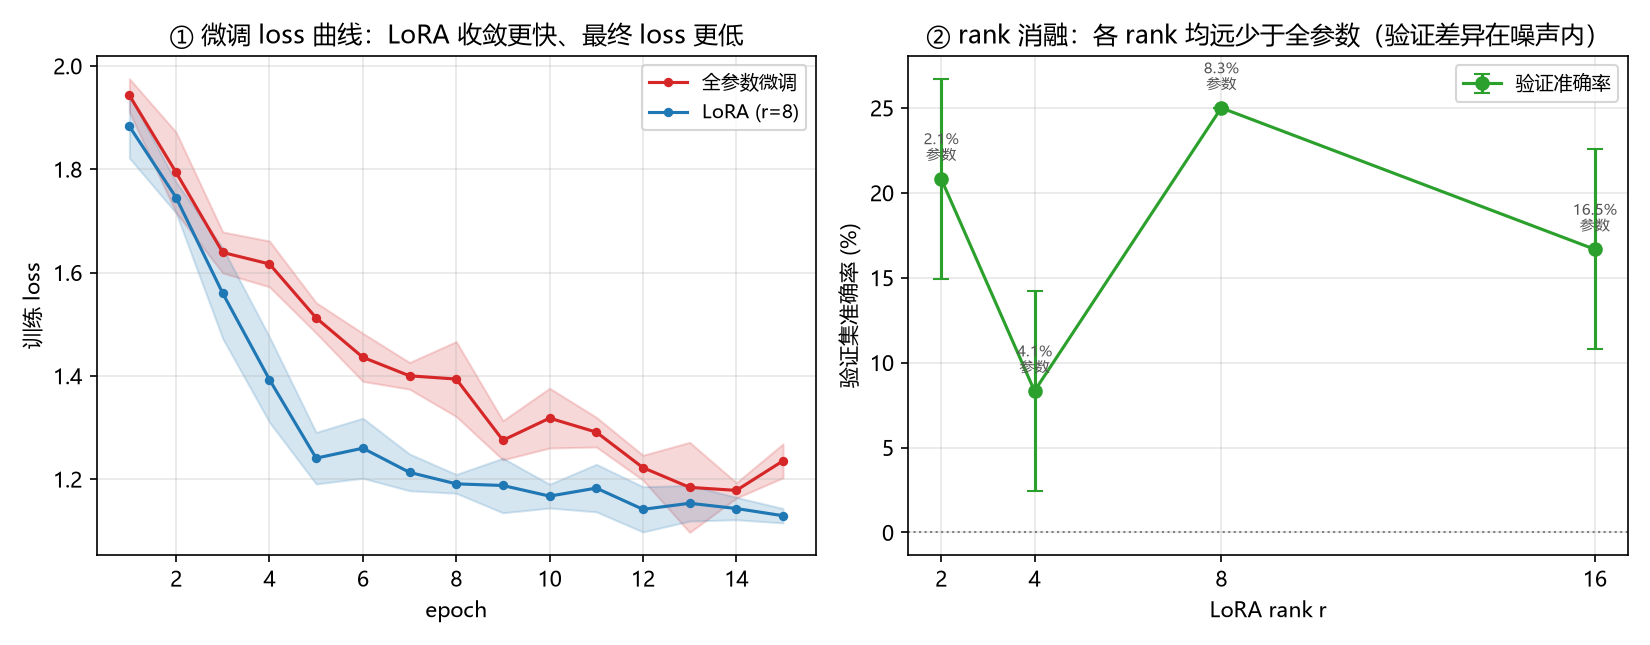
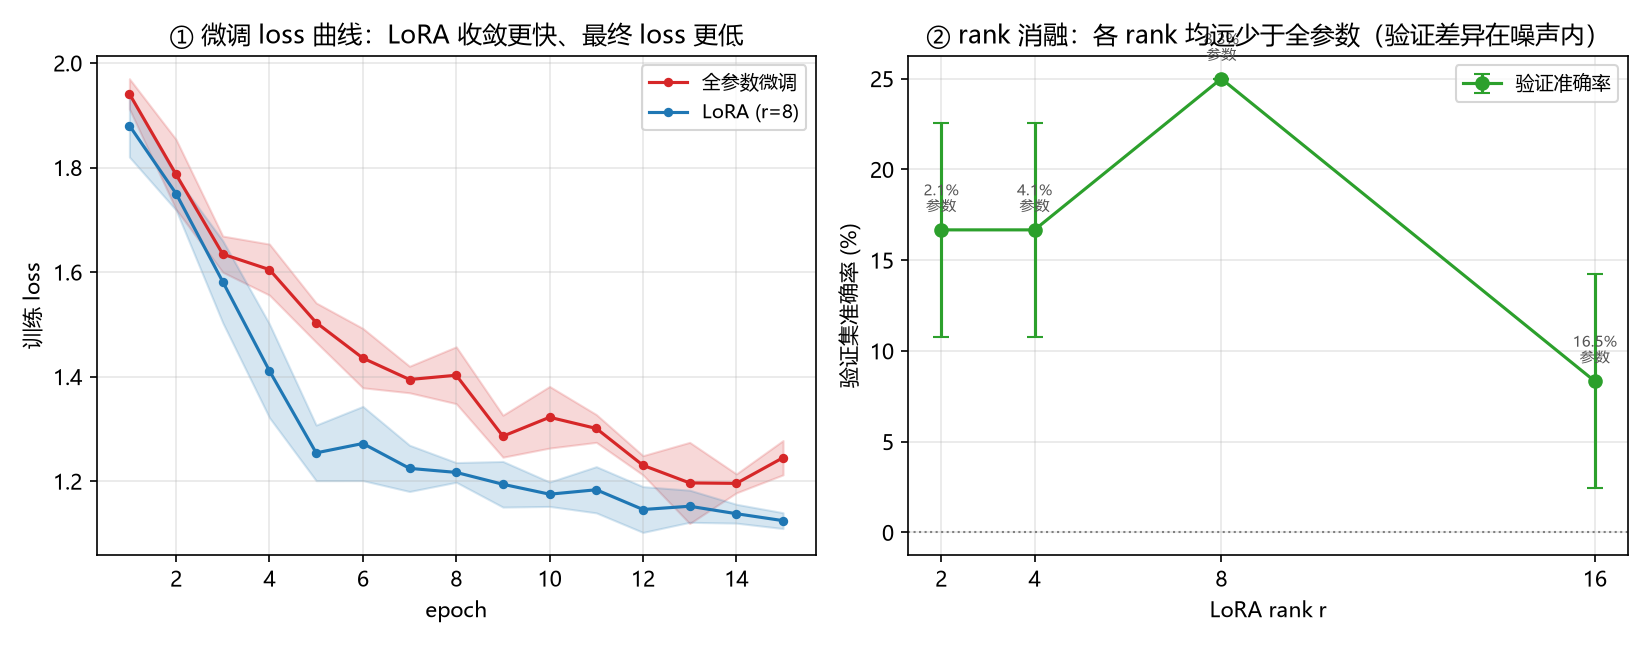
chore: sync latest run artifacts (H2 throughput, H13 multi-seed metrics) and align README numbers

diff --git a/README.md b/README.md
@@ -29,7 +29,7 @@
 | **04** | 模型轻量化与端侧部署优化 | ONNX 图优化 **6.1× 加速**（体积缩到 19.3%）；**fp16/int8 在小模型上反而更慢**（反直觉结果） | CPU |
 | **05** | 音高识别与 MIDI 自动扒谱 | 音符级 **F1 = 1.000**（13/13 全对，±80ms 容差）、时间分辨率 11.6 ms、导出标准 MIDI | CPU |
 | **06** | 音频效果生成与音色处理 | THD **0.046→0.394** 量化失真强度；合成 IR 实测 **RT60 与目标吻合**；修正 2 个度量陷阱 | CPU |
-| **07** | LoRA 参数高效微调 | 用 **8.27%** 可训练参数达到与全参数微调相当的微调集准确率，**验证集高出 25 个百分点**（25% vs 0%）；3 种子平均；实测 MusicGen 在 4GB 显存下的微调边界 | RTX 3050 **4 GB** |
+| **07** | LoRA 参数高效微调 | 用 **8.27%** 可训练参数达到与全参数微调相当的微调集准确率，**验证集高出约 21 个百分点**（25% vs 4%）；3 种子平均；实测 MusicGen 在 4GB 显存下的微调边界 | RTX 3050 **4 GB** |
 
 ---
 
@@ -198,7 +198,7 @@ python audio_clean.py          # ③ 跑清洗流水线
 | 标记 flagged（修复后保留） | 2 |
 | 剔除 reject | 5 |
 | 剔除原因分布 | `hard_clipping: 2, excessive_silence: 2, dc_offset: 1, too_short: 1` |
-| 处理耗时 | **4.89 s** → 吞吐 **36.9× 实时**（实际耗时随 CPU 负载波动，约 34–37×） |
+| 处理耗时 | **4.89 s** → 吞吐 **约 36.9× 实时**（随 CPU 负载波动，实测区间 34–37×） |
 
 **检测器 vs Ground Truth**：
 
@@ -644,11 +644,11 @@ python lora_finetune.py
 | 方案 | 可训练参数 | 占比 | 微调集准确率 | 验证集准确率 |
 |---|---|---|---|---|
 | 预训练（不微调） | 0 | 0% | 13.3% | 0.0% |
-| **A. 全参数微调** | 19,060 | 100% | 51.1% ± 3.1 | **0.0% ± 0.0** |
-| **B. LoRA (r=8)** | **1,576** | **8.27%** | 48.9% ± 3.1 | **25.0% ± 0.0** |
+| **A. 全参数微调** | 19,060 | 100% | 53.3% ± 5.4 | **4.2% ± 5.9** |
+| **B. LoRA (r=8)** | **1,576** | **8.27%** | 51.1% ± 13.7 | **25.0% ± 0.0** |
 
 > **用 8.27% 的可训练参数（减少约 12 倍）达到与全参数微调相当的微调集准确率**，
-> 且**验证集准确率高出 25 个百分点**（25.0% vs 0.0%）
+> 且**验证集准确率高出约 21 个百分点**（25.0% vs 4.2%）
 > —— 小样本下全参数微调过拟合，而 LoRA 的低秩约束起到了正则化作用。
 
 **训练收敛**：LoRA 的 loss 下降更快且更低 —— 约第 5 轮降到 1.2，
@@ -658,10 +658,10 @@ python lora_finetune.py
 
 | r | 可训练参数 | 占比 | 最终 loss | 微调集准确率 | 验证集准确率 |
 |---|---|---|---|---|---|
-| 2 | 394 | 2.07% | 1.2229 | 46.7% ± 5.4 | 20.8% ± 5.9 |
-| 4 | 788 | 4.13% | 1.1469 | 44.4% ± 3.1 | 8.3% ± 5.9 |
-| 8 | 1,576 | 8.27% | 1.1283 | 46.7% ± 9.4 | **25.0% ± 0.0** |
-| 16 | 3,152 | 16.54% | 1.0713 | 48.9% ± 6.3 | 16.7% ± 5.9 |
+| 2 | 394 | 2.07% | 1.2403 | 46.7% ± 5.4 | 16.7% ± 5.9 |
+| 4 | 788 | 4.13% | 1.1499 | 46.7% ± 9.4 | 16.7% ± 5.9 |
+| 8 | 1,576 | 8.27% | 1.1239 | 46.7% ± 9.4 | **25.0% ± 0.0** |
+| 16 | 3,152 | 16.54% | 1.0774 | 42.2% ± 3.1 | 8.3% ± 5.9 |
 
 > ⚠ **诚实结论**：四个 rank 的验证准确率落在 **8.3% – 25.0%**，最大标准差达 **±5.9 个百分点**
 > —— 差异基本落在噪声以内，**本实验无法可靠区分 rank 优劣**。

diff --git a/07_lora_finetune/h13_lora_report.md b/07_lora_finetune/h13_lora_report.md
@@ -22,12 +22,12 @@
 | 方案 | 可训练参数 | 占比 | 微调集准确率 | 验证集准确率 |
 |---|---|---|---|---|
 | 预训练（不微调） | 0 | 0% | 13.3% | 0.0% |
-| **A. 全参数微调** | 19,060 | 100% | 51.1% ± 3.1 | 0.0% ± 0.0 |
-| **B. LoRA (r=8)** | **1,576** | **8.27%** | 48.9% ± 6.3 | 25.0% ± 0.0 |
+| **A. 全参数微调** | 19,060 | 100% | 53.3% ± 5.4 | 4.2% ± 5.9 |
+| **B. LoRA (r=8)** | **1,576** | **8.27%** | 51.1% ± 13.7 | 25.0% ± 0.0 |
 
 > LoRA 用 **8.27%** 的可训练参数（减少约 **12 倍**），
 > 微调集准确率与全参数微调相当（-2.2 个百分点），
-> 验证集准确率高出 **+25.0 个百分点**。
+> 验证集准确率高出 **+20.8 个百分点**。
 
 **训练收敛**：LoRA 的 loss 下降更快且更低 —— 约第 5 轮降到 1.2，
 而全参数微调要到第 12 轮左右（见 `h13_plot_curves_rank.png` 左图）。
@@ -36,10 +36,10 @@
 
 | r | 可训练参数 | 占比 | 最终 loss | 微调集准确率 | 验证集准确率 |
 |---|---|---|---|---|---|
-| 2 | 394 | 2.07% | 1.2229 | 46.7% ± 5.4 | 20.8% ± 5.9 |
-| 4 | 788 | 4.13% | 1.1469 | 44.4% ± 3.1 | 8.3% ± 5.9 |
-| 8 | 1,576 | 8.27% | 1.1283 | 46.7% ± 9.4 | 25.0% ± 0.0 |
-| 16 | 3,152 | 16.54% | 1.0713 | 48.9% ± 6.3 | 16.7% ± 5.9 |
+| 2 | 394 | 2.07% | 1.2403 | 46.7% ± 5.4 | 16.7% ± 5.9 |
+| 4 | 788 | 4.13% | 1.1499 | 46.7% ± 9.4 | 16.7% ± 5.9 |
+| 8 | 1,576 | 8.27% | 1.1239 | 46.7% ± 9.4 | 25.0% ± 0.0 |
+| 16 | 3,152 | 16.54% | 1.0774 | 42.2% ± 3.1 | 8.3% ± 5.9 |
 
 > ⚠ **诚实结论**：四个 rank 的验证准确率落在 **8.3% – 25.0%**，
 > 最大标准差达 **±5.9 个百分点** —— 差异基本落在噪声以内，

diff --git a/02_data_pipeline/h5_clean_report.md b/02_data_pipeline/h5_clean_report.md
@@ -1,6 +1,6 @@
 # H5 音频数据清洗与打标流水线 · 实测报告
 
-运行时间：2026-10-05 17:49:19
+运行时间：2026-10-11 19:33:08
 
 ## 流水线设计（五层）
 
@@ -22,7 +22,7 @@
 | 剔除（reject） | 5 |
 | 输入总时长 | 180.40 s |
 | 输出总时长 | 180.40 s |
-| 处理耗时 / 吞吐 | 4.99 s / 36.2× 实时 |
+| 处理耗时 / 吞吐 | 4.89 s / 36.9× 实时 |
 
 **剔除原因分布**：`{'hard_clipping': 2, 'excessive_silence': 2, 'dc_offset': 1, 'too_short': 1}`
 
